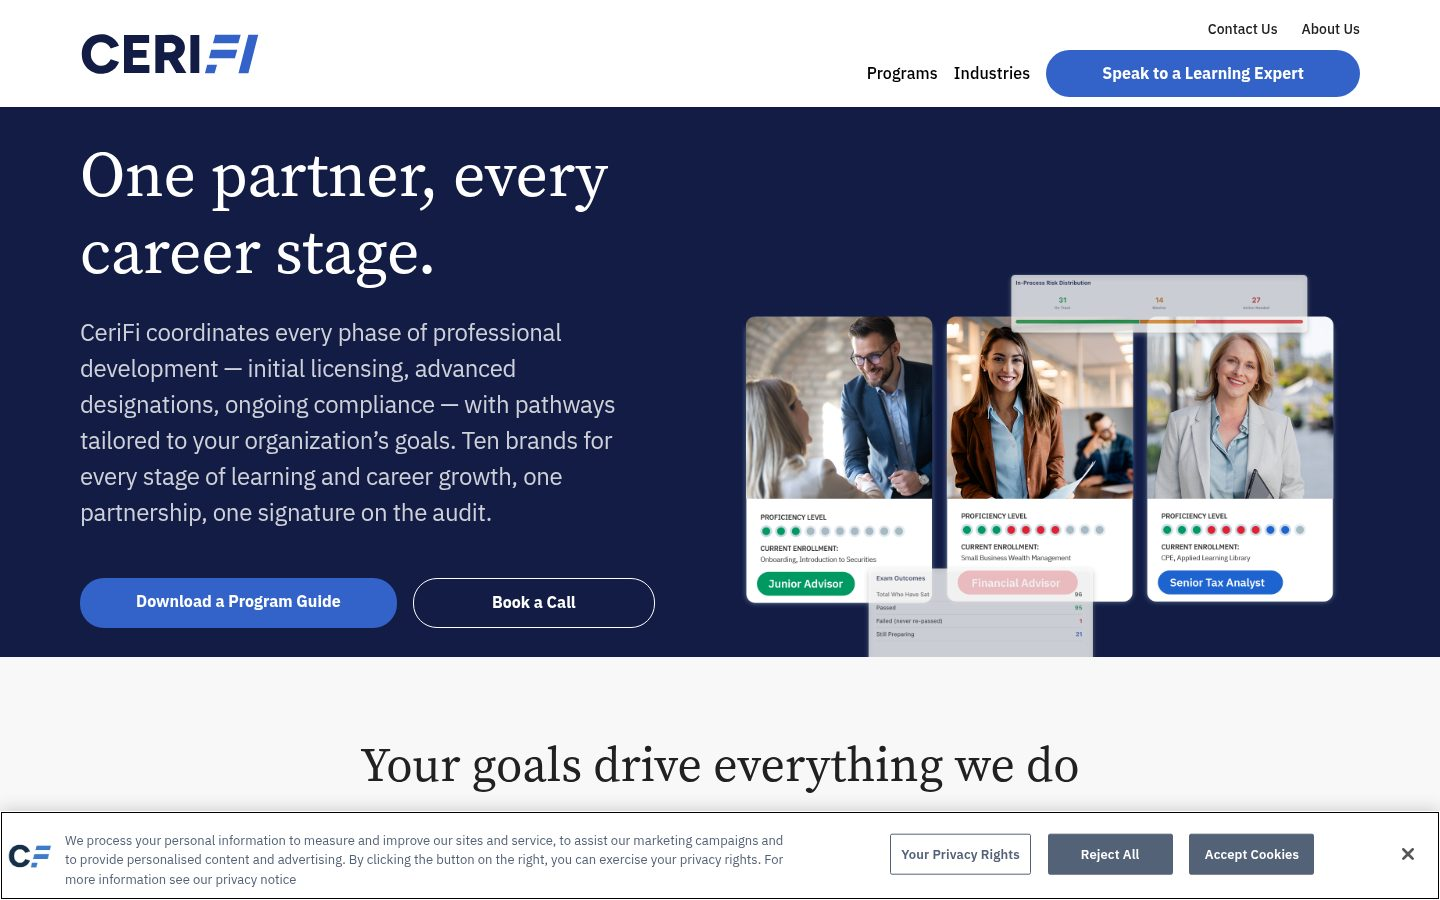
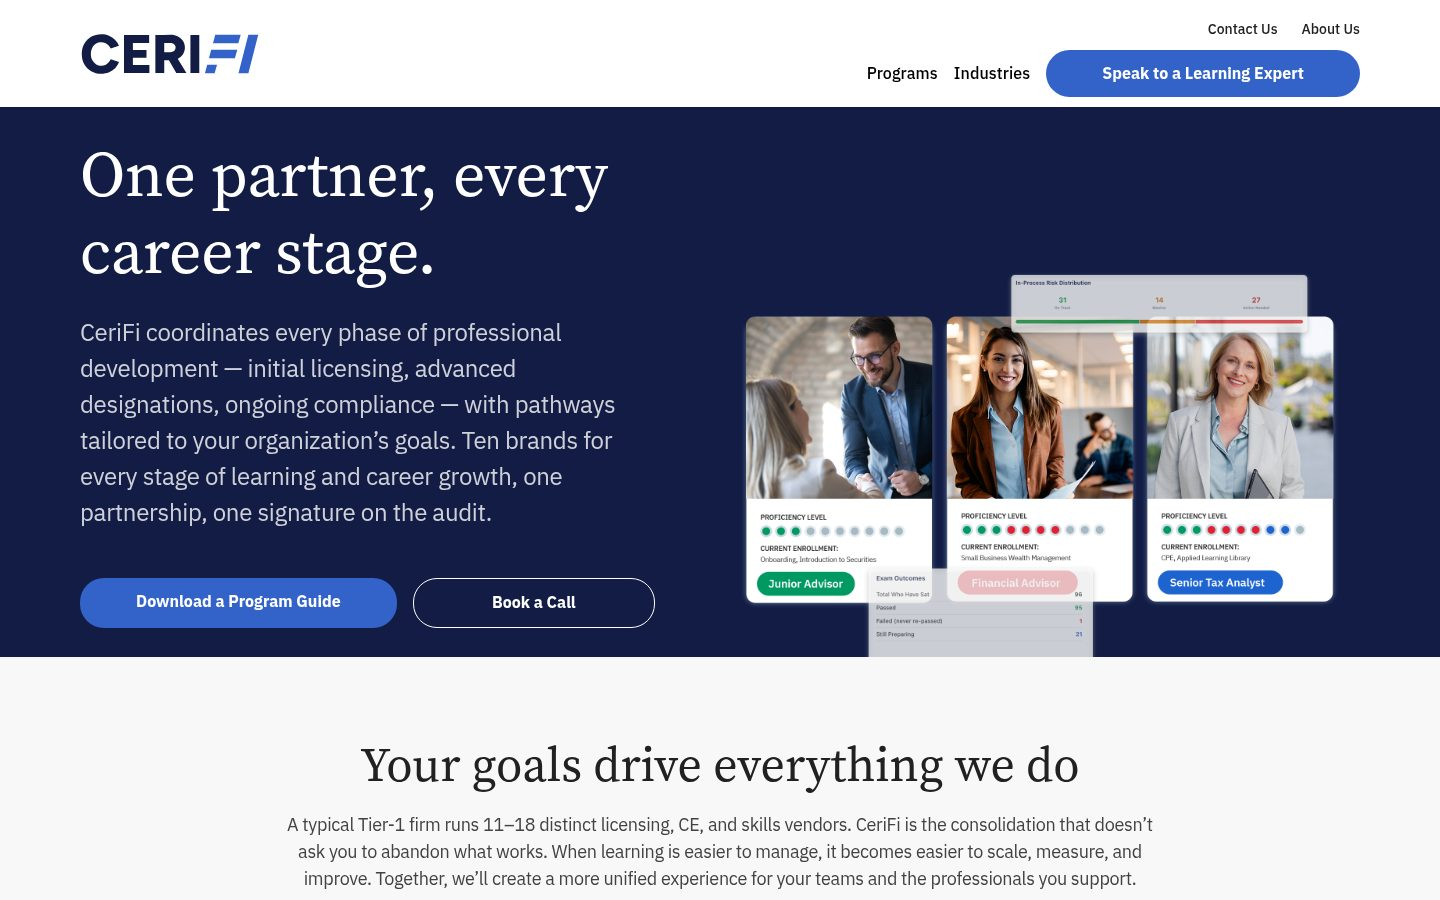
polish: clean public screenshots and remove unintended image frame padding

Changed region(s): [[0.0, 0.9022, 1.0, 1.0]]

diff --git a/src/styles/global.css b/src/styles/global.css
@@ -109,7 +109,7 @@
   .hero__rule { margin-top: 2.5rem; border-top: 1px solid var(--line); }
 
   /* Public-site screenshots are displayed without synthetic brand artwork. */
-  .project-art--real { display: block; padding: 0; background: #e4e8e4; }
+  .project-art.project-art--real { display: block; padding: 0; background: #e4e8e4; }
   .project-art--real::before, .project-art--real::after { content: none; }
   .project-art--real .art__image { width: 100%; height: 100%; display: block; object-fit: cover; object-position: top center; transition: transform .55s cubic-bezier(.2,.7,.1,1); }
   .project-card:hover .project-art--real .art__image { transform: scale(1.025); }
